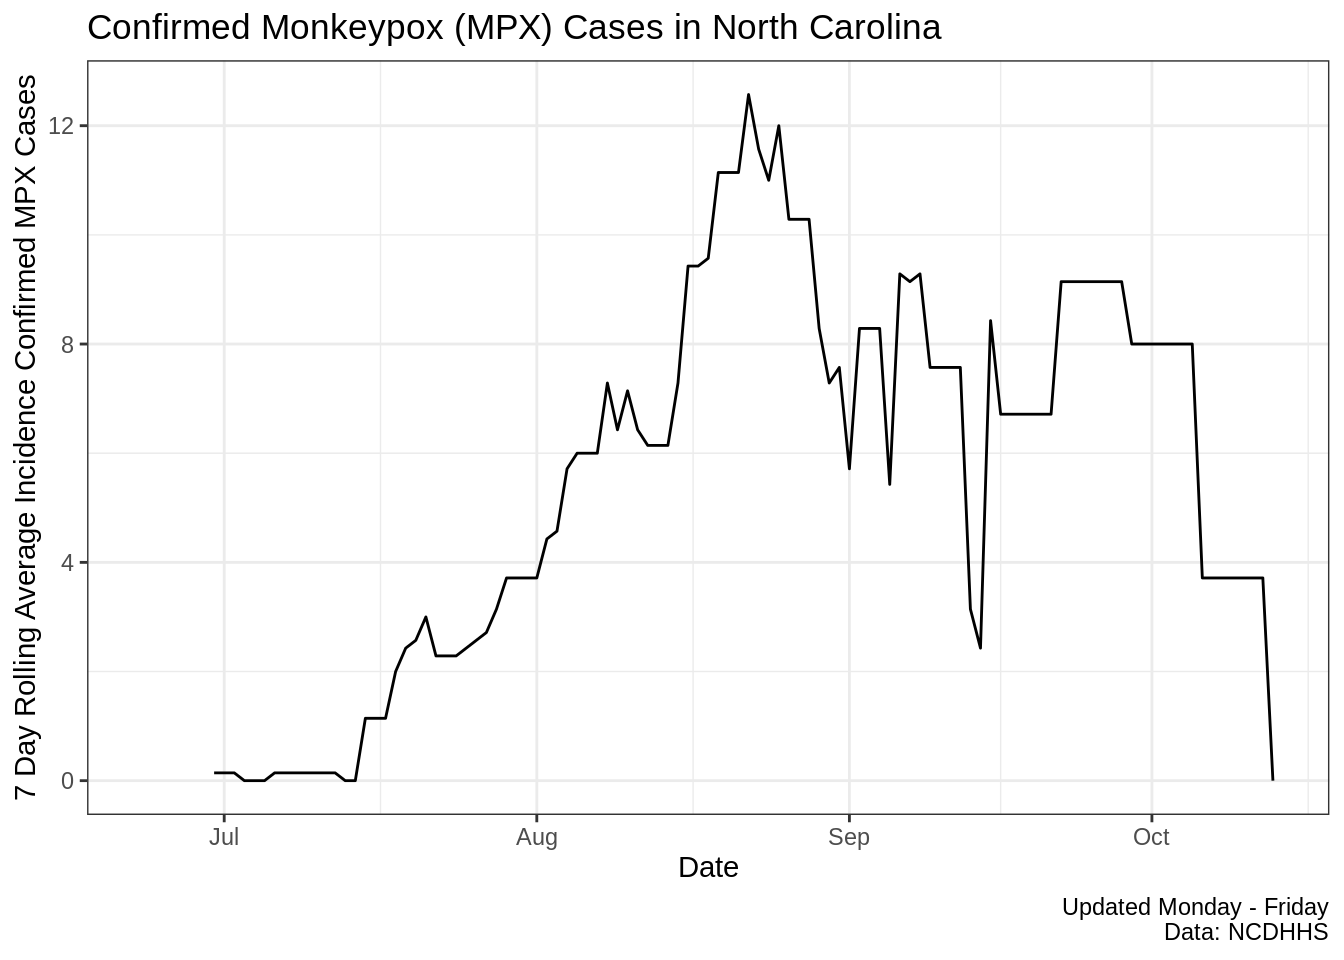
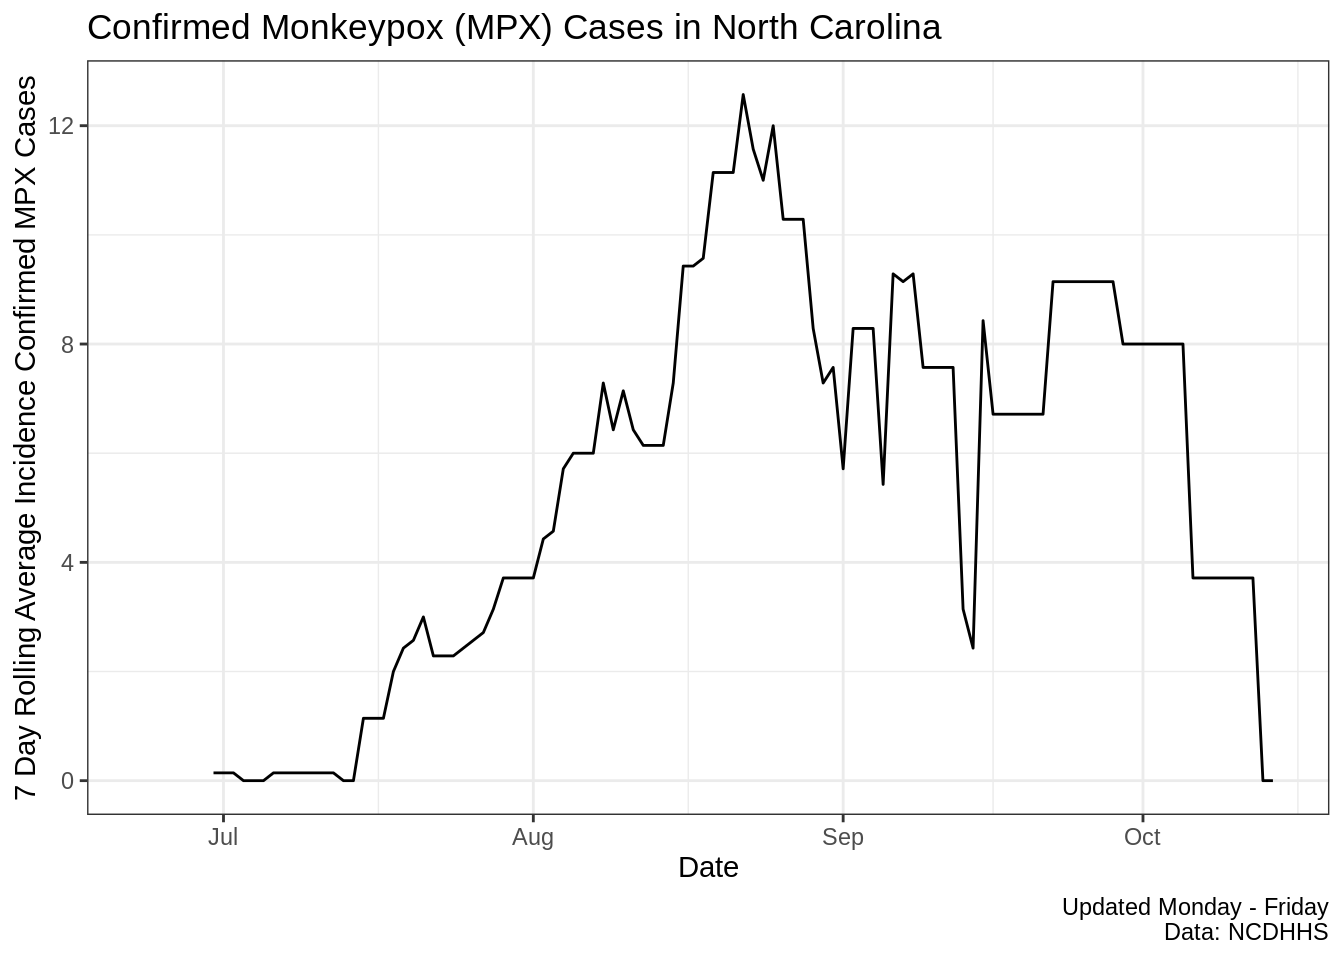
Update the latest data

diff --git a/docs/index.html b/docs/index.html
@@ -139,7 +139,7 @@ ul.task-list li input[type="checkbox"] {
 <div class="cell">
 
 </div>
-<p>These data are current as of 07 October, 2022. Current case incidence suggests a doubling time of 19.6 (95% CI, 17.8-21.9) days.</p>
+<p>These data are current as of 14 October, 2022. Current case incidence suggests a doubling time of 21.9 (95% CI, 19.7-24.7) days.</p>
 <div class="cell">
 <div class="cell-output-display">
 <p><img src="index_files/figure-html/unnamed-chunk-2-1.png" class="img-fluid" width="672"></p>
